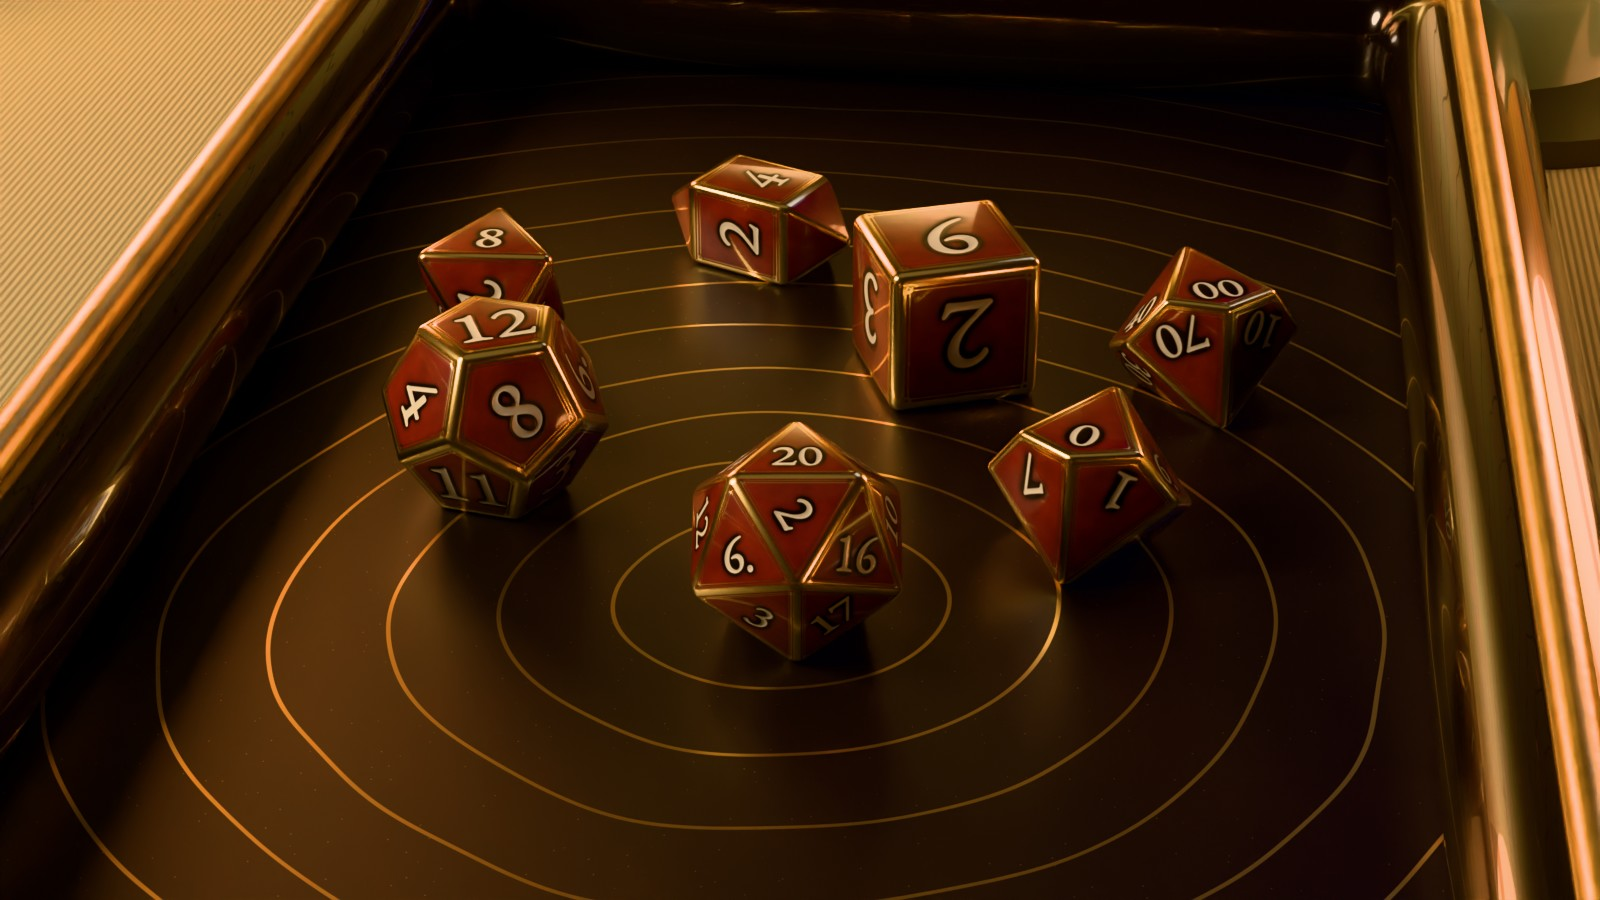
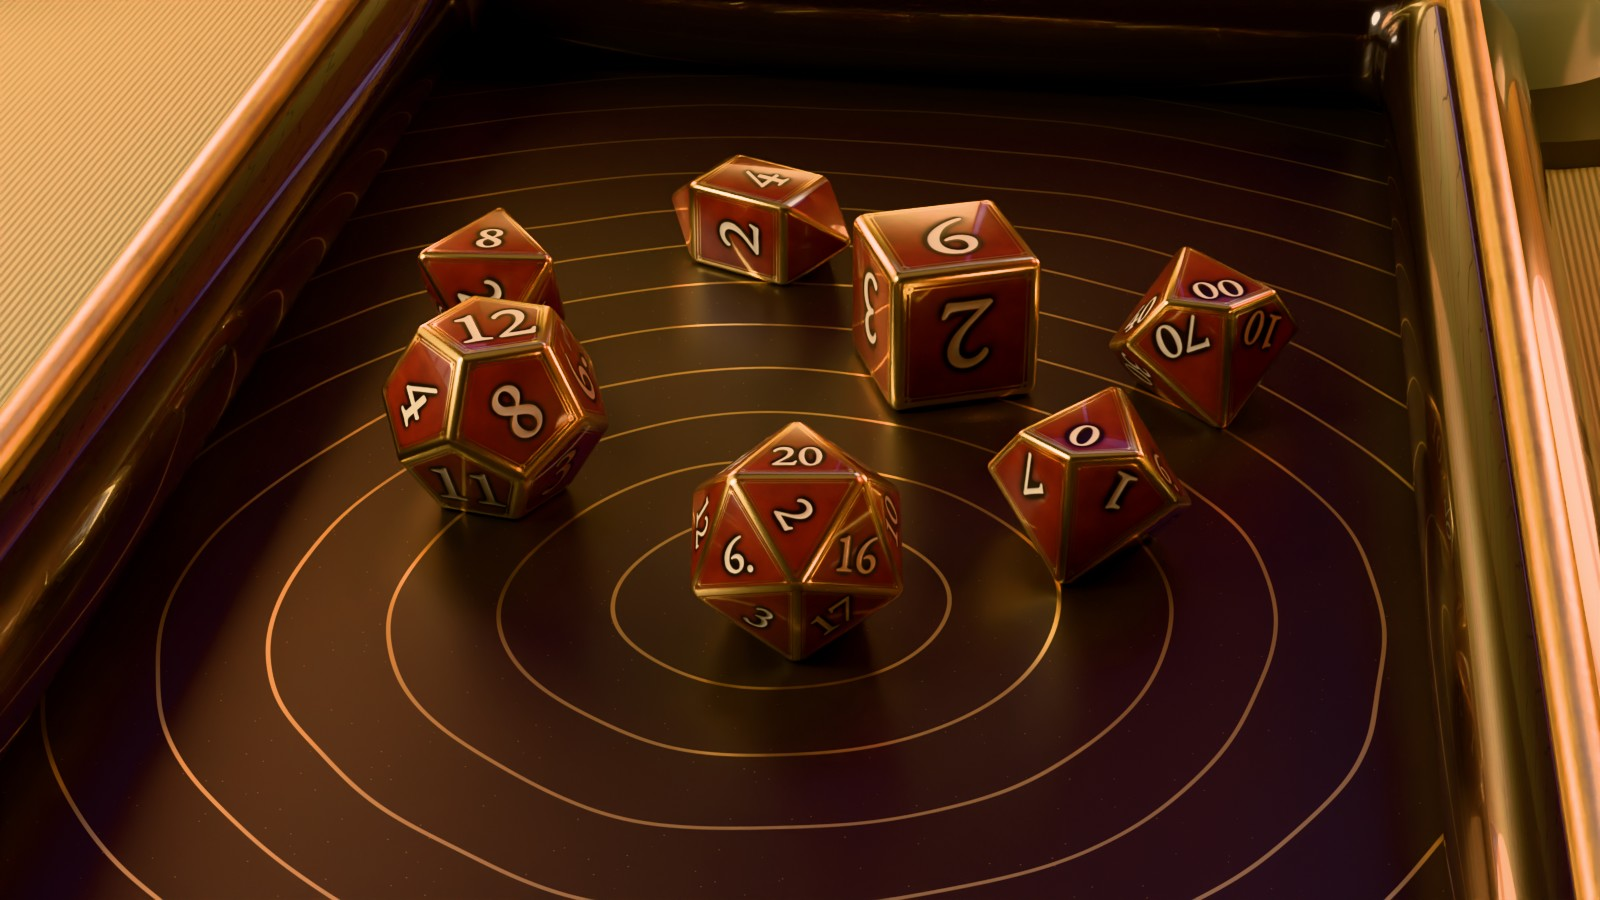
Game rooms: Vermilion lantern pavilion

diff --git a/dart3d/example/tool/dice_lookdev/build_env_vermilion.py b/dart3d/example/tool/dice_lookdev/build_env_vermilion.py
@@ -172,7 +172,6 @@ def room(scene, lac):
         E.cylinder("pagoda_roof", wd * 0.75, 7, (px, py, z + 12), far, segs=4, r2=wd * 0.25).rotation_euler = \
             (0, 0, math.radians(45))
     E.cylinder("pagoda_spire", 0.8, 25, (px, py, 210), far, segs=6)
-    E.cube("pagoda_hill", (160, 8, 110), (px + 10, py + 2, 50), far)
     bark = E.simple("Cherry bark", (0.03, 0.02, 0.02), 0.8)
     blossom = E.simple("Blossom", (0.95, 0.6, 0.7), 0.6, Subsurface_Weight=0.4, Emission_Color=(1.0, 0.6, 0.7, 1),
                        Emission_Strength=0.15)
@@ -191,16 +190,16 @@ def room(scene, lac):
         RC.shoji("left", u, 78, 190, wood, glow=0.35)
     # a tansu chest on the right wall, cushions on the mats
     RC.cabinet("right", 60, w=110, h=70, depth=45, mat=wood, top_mat=red, doors=3)
-    cush = E.simple("Zabuton", (0.05, 0.05, 0.14), 0.8, Sheen_Weight=0.8)
+    cush = E.simple("Zabuton", (0.12, 0.02, 0.03), 0.6)
     for x, y in ((-70, -10), (70, -30)):
-        E.cube("zabuton", (55, 55, 9), (x, y, 4.5), cush, bevel=3.5)
+        E.cube("zabuton", (50, 50, 7), (x, y, 3.5), cush, bevel=3.0)
     # the andon: a paper floor lantern on the left (warm)
     ax, ay = -110, 70
     for sx in (-1, 1):
         for sy in (-1, 1):
             E.cube("andon_leg", (2.5, 2.5, 70), (ax + sx * 12, ay + sy * 12, 35), wood)
     E.cube("andon_paper", (23, 23, 45), (ax, ay, 45), E.simple("Andon paper", (0.9, 0.8, 0.6), 0.9,
-           Emission_Color=(1.0, 0.72, 0.4, 1), Emission_Strength=2.0)).visible_shadow = False
+           Emission_Color=(1.0, 0.72, 0.4, 1), Emission_Strength=0.7)).visible_shadow = False
     E.light(scene, "POINT", "andon_light", (ax, ay, 45), 9000, color=(1.0, 0.7, 0.4), size=10)
     # a big vermilion paper lantern hung on the right (the red accent)
     RC.paper_lantern(scene, 120, 40, 130, r=26, color=(1.0, 0.18, 0.06), energy=14000,

diff --git a/docs/design/dice-lookdev.md b/docs/design/dice-lookdev.md
@@ -1159,6 +1159,19 @@ Lighting recipes (the tray lights are unchanged unless noted):
   counter. Gate: numeral 12.35 (d4), die vs tray 4.66, stroke
   0.124–0.132, PASS.
 
+- **Vermilion Court — the lantern pavilion.** A tatami room (the tray
+  sits on the mats; room floor z = 0, camera at seated-on-the-floor
+  height): shoji along the left wall glowing faintly, lacquered posts, the
+  gold-leaf folding screen behind the tray, a tansu chest with a
+  vermilion top on the right, cushions, and the back open onto a
+  vermilion veranda railing over dusk mountains, a pagoda silhouette and
+  a cherry tree in blossom. Lights: a paper andon floor lantern (9 kW,
+  warm, left), a big vermilion paper lantern hung on the right (14 kW,
+  red accent), the dusk sky through the opening (area, 30 kW, cool
+  violet, back), over the tray's warm key, moon and overhead and the
+  small table lanterns. Camera: 20 mm, f/4. Gate: numeral 5.26 (d10u),
+  die vs tray 2.28, stroke 0.123–0.128, PASS.
+
 ## 4. dart3d features to verify (before building these for real)
 
 1. **Emissive intensity > 1 + bloom threshold** on both platforms, and
